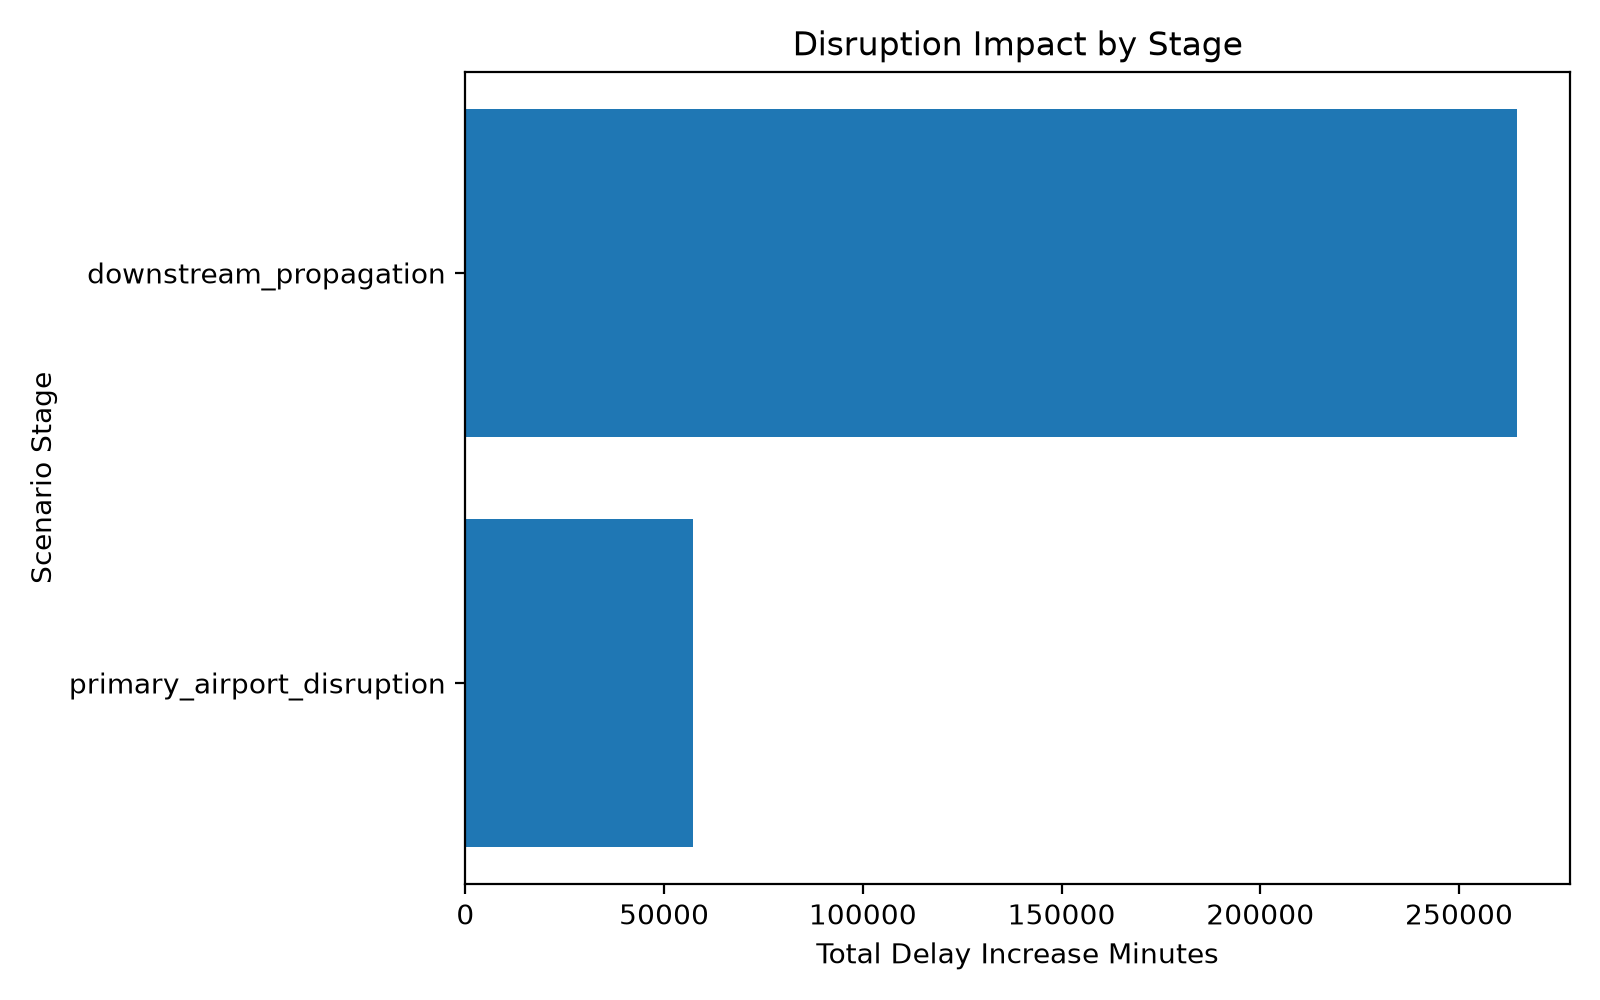
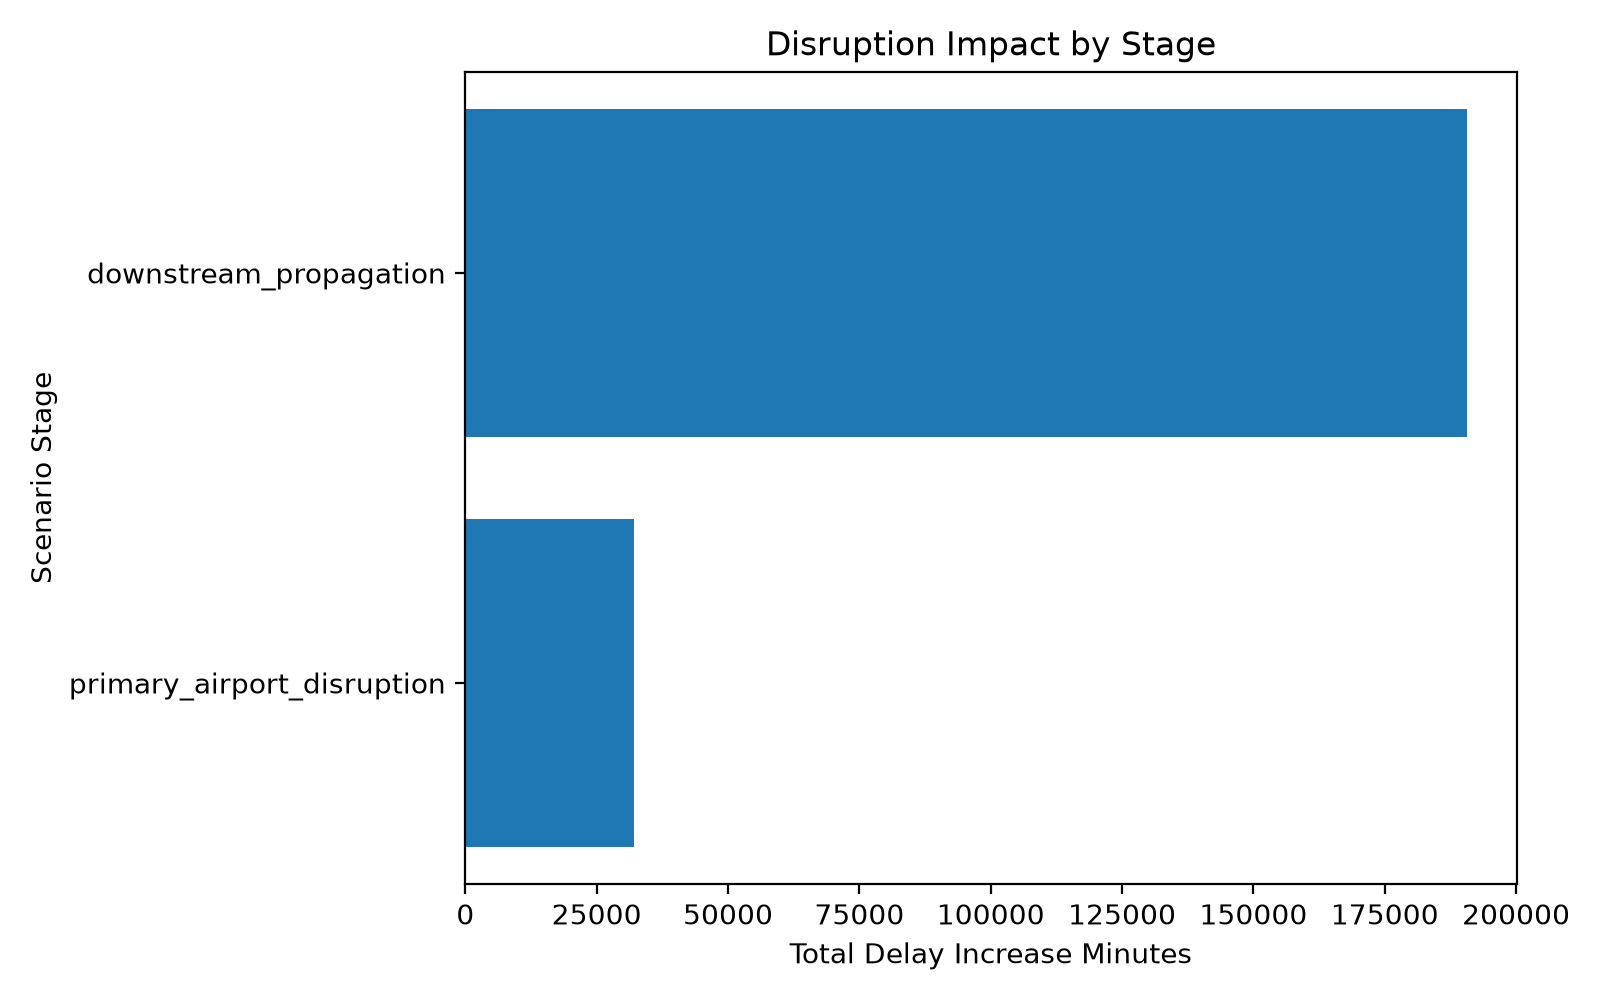
Update disruption simulation outputs

diff --git a/reports/disruption_simulation_report.md b/reports/disruption_simulation_report.md
@@ -4,51 +4,51 @@
 
 - Airport disrupted: DEN
 - Date: 2025-01-02
-- Disruption window: 7:00-16:00
-- Primary added delay: 120 minutes
-- Propagation window: 8 hours
+- Disruption window: 8:00-14:00
+- Primary added delay: 90 minutes
+- Propagation window: 6 hours
 
 ## Impact Summary
 
-- Primary impacted flights: 478
-- Downstream impacted flights: 6,150
-- Total impacted flights: 6,628
-- Baseline total positive delay: 100,735.00 minutes
-- Simulated total positive delay: 422,787.00 minutes
-- Total delay increase: 322,052.00 minutes
-- Average delay increase per impacted flight: 48.59 minutes
+- Primary impacted flights: 357
+- Downstream impacted flights: 5,867
+- Total impacted flights: 6,224
+- Baseline total positive delay: 80,284.00 minutes
+- Simulated total positive delay: 302,982.00 minutes
+- Total delay increase: 222,698.00 minutes
+- Average delay increase per impacted flight: 35.78 minutes
 
 ## Impact by Stage
 
 | scenario_stage             |   impacted_flights |   total_added_delay |   avg_added_delay |   total_delay_increase |
 |:---------------------------|-------------------:|--------------------:|------------------:|-----------------------:|
-| downstream_propagation     |               6150 |              264692 |           43.0393 |                 264692 |
-| primary_airport_disruption |                478 |               57360 |          120      |                  57360 |
+| downstream_propagation     |               5867 |              190568 |           32.4813 |                 190568 |
+| primary_airport_disruption |                357 |               32130 |           90      |                  32130 |
 
 ## Top Routes Affected
 
 | route      |   impacted_flights |   total_delay_increase |   avg_delay_increase |
 |:-----------|-------------------:|-----------------------:|---------------------:|
-| DEN -> PHX |                 14 |                   1680 |                  120 |
-| DEN -> DFW |                 11 |                   1320 |                  120 |
-| DEN -> SLC |                 10 |                   1200 |                  120 |
-| DEN -> LAX |                 10 |                   1200 |                  120 |
-| DEN -> LAS |                 10 |                   1200 |                  120 |
-| DEN -> SFO |                  9 |                   1080 |                  120 |
-| DEN -> SAN |                  9 |                   1080 |                  120 |
-| DEN -> ORD |                  9 |                   1080 |                  120 |
-| DEN -> LGA |                  8 |                    960 |                  120 |
-| DEN -> MSP |                  8 |                    960 |                  120 |
-| DEN -> SEA |                  8 |                    960 |                  120 |
-| DEN -> ATL |                  8 |                    960 |                  120 |
-| DEN -> AUS |                  7 |                    840 |                  120 |
-| DEN -> MCO |                  7 |                    840 |                  120 |
-| DEN -> IAH |                  7 |                    840 |                  120 |
-| DEN -> BNA |                  7 |                    840 |                  120 |
-| DEN -> BOS |                  7 |                    840 |                  120 |
-| LAX -> LAS |                 13 |                    780 |                   60 |
-| LAX -> SFO |                 13 |                    780 |                   60 |
-| DEN -> ABQ |                  6 |                    720 |                  120 |
+| DEN -> PHX |                  9 |                    810 |                   90 |
+| DEN -> SLC |                  8 |                    720 |                   90 |
+| LAX -> SFO |                 12 |                    672 |                   56 |
+| PHX -> DEN |                 11 |                    660 |                   60 |
+| DEN -> BOS |                  7 |                    630 |                   90 |
+| DEN -> LAX |                  7 |                    630 |                   90 |
+| DEN -> DFW |                  7 |                    630 |                   90 |
+| LAX -> LAS |                 10 |                    560 |                   56 |
+| DEN -> SAN |                  6 |                    540 |                   90 |
+| DEN -> BNA |                  6 |                    540 |                   90 |
+| DEN -> SEA |                  6 |                    540 |                   90 |
+| DEN -> SFO |                  6 |                    540 |                   90 |
+| LAX -> PHX |                  9 |                    504 |                   56 |
+| PHX -> SEA |                  8 |                    480 |                   60 |
+| PHX -> LAX |                  8 |                    480 |                   60 |
+| SFO -> LAX |                 10 |                    480 |                   48 |
+| DEN -> DAL |                  5 |                    450 |                   90 |
+| DEN -> COS |                  5 |                    450 |                   90 |
+| DEN -> ASE |                  5 |                    450 |                   90 |
+| DEN -> AUS |                  5 |                    450 |                   90 |
 
 ## Interpretation
 
